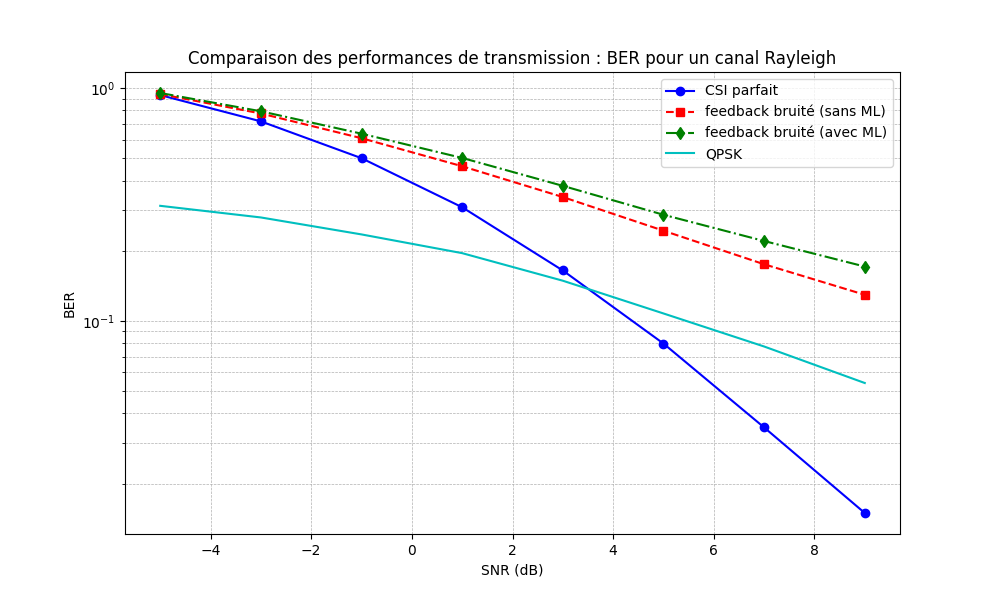
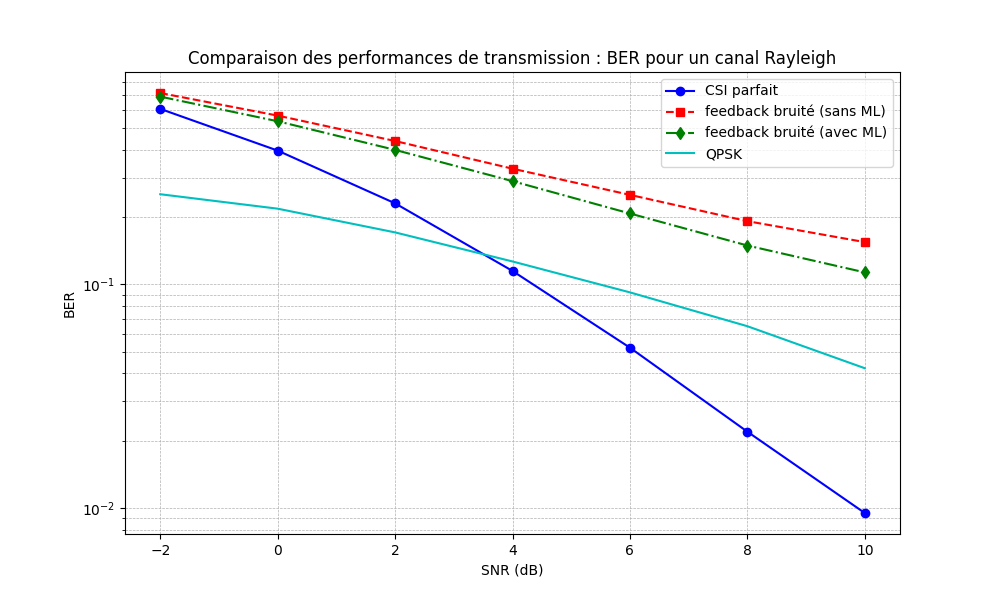
test

diff --git a/channel.py b/channel.py
@@ -30,14 +30,12 @@ def channel(x, snr_db, chann_type="AWGN", K_rician=3, sigma_CSI=0.0):
         h = torch.ones_like(x)  # Canal AWGN = pas d'effet de fading, donc h = 1
         noise = sigma_noise * torch.randn_like(x)  # Bruit Gaussien
         x_channel = h * x + noise
-        print(f"Mean of noise - AWGN: {torch.mean(noise)}, Std of noise - AWGN: {torch.std(noise)}")
 
     elif chann_type == "Rayleigh":
         # Fading Rayleigh (module d'un signal complexe gaussien)
         h = torch.sqrt(torch.randn_like(x) ** 2 + torch.randn_like(x) ** 2) / np.sqrt(2)
         noise = sigma_noise * torch.randn_like(x)
         x_channel = h * x + noise  # Application du fading
-        print(f"Mean x_channel - Rayleigh: {torch.mean(x_channel)}, Std x_channel - Rayleigh: {torch.std(x_channel)}")
 
     elif chann_type == "Rician":
         # Fading Rician = Composante directe + diffusion (Rayleigh)
@@ -52,7 +50,6 @@ def channel(x, snr_db, chann_type="AWGN", K_rician=3, sigma_CSI=0.0):
     
         noise = sigma_noise * torch.randn_like(x)   # Bruit Gaussien
         x_channel = h * x + noise   # Application du fading
-        print(f"Mean x_channel - Rician: {torch.mean(x_channel)}, Std x_channel - Rician: {torch.std(x_channel)}")
 
     else:
         raise ValueError(f"Type de canal non supporté: {chann_type}")
@@ -101,11 +98,12 @@ def plot_channel_distribution(snr_db=10, n_samples=10000, chann_type="AWGN", K_r
         sigma = 1 / np.sqrt(6)  # Échelle correcte 
         plt.plot(x_range, rice.pdf(x_range, b, scale=sigma), 'r-', label="Theoretical")
 
-    plt.xlabel("Valeur du signal")
-    plt.ylabel("Densité")
-    plt.title(f"Distribution du signal après le canal {chann_type}")
+    plt.xlabel("Amplitude")
+    plt.ylabel("Density")
+    plt.title(f"Signal distribution after the channel {chann_type}")
     plt.legend()
     plt.grid()
+    plt.savefig(f"plots/{chann_type}_distribution.png")
     #plt.show()
 
 
@@ -128,9 +126,9 @@ def plot_fading_distributions():
 
         plt.plot(x_range, pdf, label=label)
 
-    plt.xlabel("Valeur du signal")
-    plt.ylabel("Densité")
-    plt.title("Distributions Rayleigh et Rician")
+    plt.xlabel("Amplitude")
+    plt.ylabel("Density")
+    plt.title("Rayleigh et Rician Distributions")
     plt.legend()
     plt.grid()
     #plt.show()
@@ -154,14 +152,15 @@ def evaluate_CSI_impact():
 
         for sigma_CSI in sigma_CSI_values:
             _, _, _, _, h, h_hat = channel(x, snr, chann_type, K_rician=3, sigma_CSI=sigma_CSI)
-            plt.hist(h_hat.numpy(), bins=50, density=True, alpha=0.5, label=f"CSI bruité (σ={sigma_CSI})")
+            plt.hist(h_hat.numpy(), bins=50, density=True, alpha=0.5, label=f"Noisy CSI (σ={sigma_CSI})")
 
-        plt.hist(h.numpy(), bins=50, density=True, alpha=0.5, label="h (vrai canal)")
-        plt.xlabel("Valeur du coefficient de canal")
-        plt.ylabel("Densité")
-        plt.title(f"Distribution de h et h_hat ({chann_type}, SNR={snr} dB)")
+        plt.hist(h.numpy(), bins=50, density=True, alpha=0.5, label="h (True channel)")
+        plt.xlabel("Channel Coefficient h")
+        plt.ylabel("Density")
+        plt.title(f"Distribution of h ({chann_type}, SNR={snr} dB)")
         plt.legend()
         plt.grid()
+        plt.savefig(f"plots/{chann_type}_h_CSI.png")
         #plt.show()
 
         # Affichage de la distribution du signal après le CSI
@@ -201,6 +200,7 @@ def plot_channel_distribution_CSI(x, snr_db, chann_type="AWGN", K_rician=3, sigm
     plt.title(f"Distribution du signal après le canal {chann_type} (CSI bruité)")
     plt.legend()
     plt.grid()
+    plt.savefig(f"plots/{chann_type}_distribution_CSI.png")
     #plt.show()
 
 

diff --git a/evaluate.py b/evaluate.py
@@ -136,7 +136,7 @@ def evaluate_autoencoder(encoder, decoder, m, n, k, snr_db, chann_type, n_sample
 
     return metrics
 
-snr_values = np.arange(-5, 10, 2)  # SNR en dB
+snr_values = np.arange(-2, 11, 2)  # SNR en dB
 n_samples = 20000  # Nombre d'échantillons pour l'évaluation
 m, n = 16, 7  # Paramètres de l'autoencodeur
 k = int(math.log2(m))
@@ -187,8 +187,8 @@ for snr in snr_values:
 # Tracé BER vs SNR
 plt.figure(figsize=(10, 6))
 plt.semilogy(snr_values, results['perfect']['ber'], 'b-o', label='CSI parfait')
-plt.semilogy(snr_values, results['noisy']['ber'], 'r--s', label='feedback bruité (sans ML)')
-plt.semilogy(snr_values, results['ml']['ber'], 'g-.d', label='feedback bruité (avec ML)')
+plt.semilogy(snr_values, results['ml']['ber'], 'r--s', label='feedback bruité (sans ML)')
+plt.semilogy(snr_values, results['noisy']['ber'], 'g-.d', label='feedback bruité (avec ML)')
 plt.semilogy(snr_values, ber_qpsk, 'c', label='QPSK')
 plt.xlabel('SNR (dB)')
 plt.ylabel('BER')
